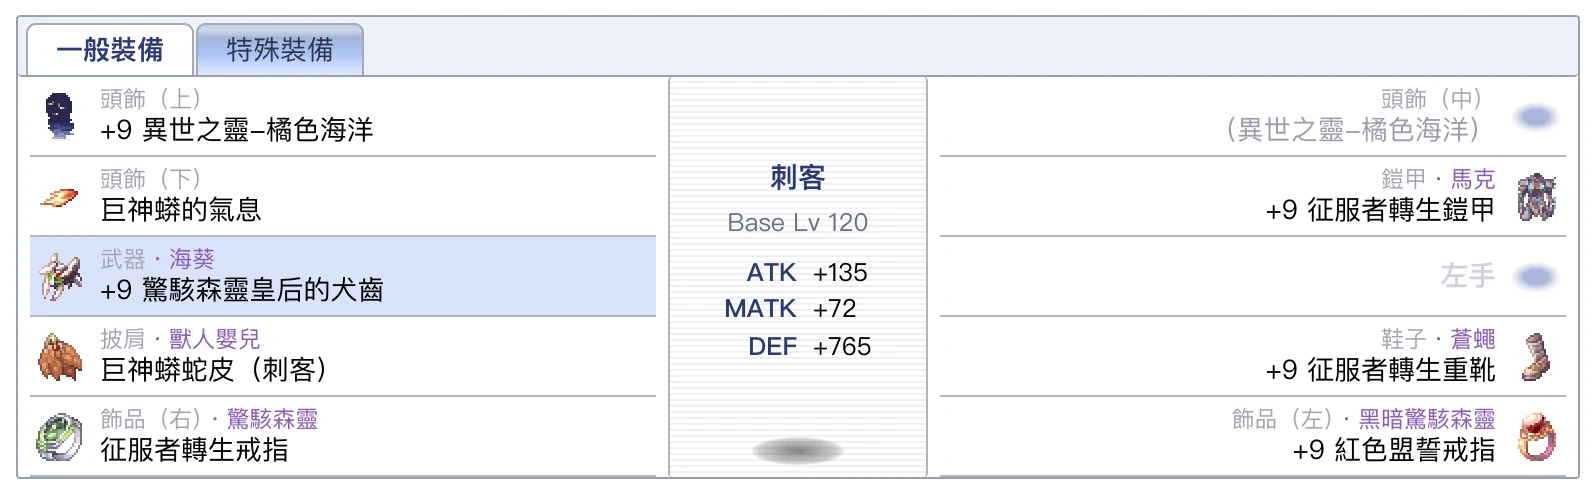
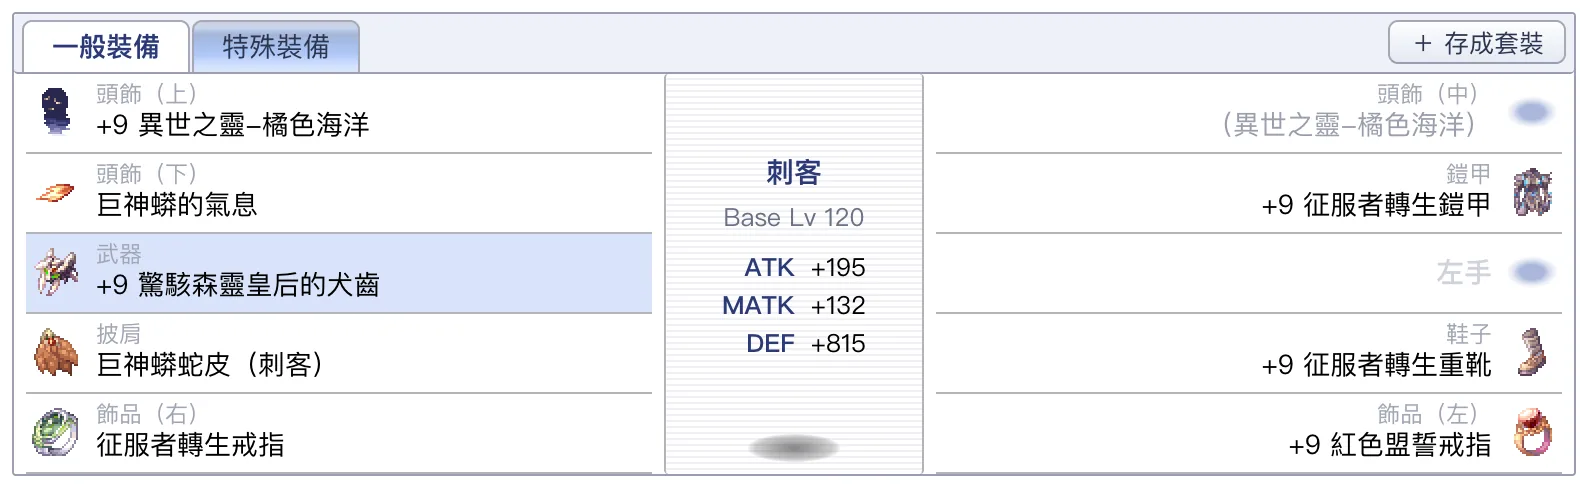
配裝：身上裝備和倉庫套裝一樣時，裝備視窗分頁右邊顯示「✓ ○○ 套裝套用中」；使用說明重拍設定、人物狀態、裝備視窗，新增倉庫圖，補套裝說明

diff --git a/public/gear-guide.html b/public/gear-guide.html
@@ -8,7 +8,7 @@
 <meta property="og:site_name" content="RO樂園工具箱">
 <meta name="author" content="凌雲閣－師爺">
 <link rel="stylesheet" href="style.css?v=29">
-<link rel="stylesheet" href="ro.css?v=33">
+<link rel="stylesheet" href="ro.css?v=34">
 <script src="ro-ui.js?v=3"></script>
 <!-- Google tag (gtag.js) -->
 <script async src="https://www.googletagmanager.com/gtag/js?id=G-WEJKY0CV80"></script>
@@ -98,8 +98,8 @@
       <li>舊版配裝和每日任務共用角色；更新後第一次打開時，有配裝的角色會自動搬到配裝的名單，名稱和配裝都保留。</li>
     </ul>
     <div class="two">
-      <figure><img src="guide/g-settings.webp?v=2" width="796" height="579" alt="設定區：職業、Base 等級、Job 等級，啟用附魔／卡片／符文／Buff／技能樹開關" loading="lazy"><figcaption>設定</figcaption></figure>
-      <figure><img src="guide/g-status.webp?v=2" width="392" height="369" alt="人物狀態：六項素質與 HP、SP、ATK、MATK、HIT、CRI、DEF、MDEF、FLEE、ASPD" loading="lazy"><figcaption>人物狀態</figcaption></figure>
+      <figure><img src="guide/g-settings.webp?v=3" width="796" height="736" alt="設定區：職業、Base 等級、Job 等級，啟用裝備／附魔／卡片／符文／Buff／技能樹開關、配置說明" loading="lazy"><figcaption>設定</figcaption></figure>
+      <figure><img src="guide/g-status.webp?v=3" width="392" height="369" alt="人物狀態：六項素質、再加 1 點要花的點數、剩餘點數，與 HP、SP、ATK、MATK、HIT、CRI、DEF、MDEF、FLEE、ASPD" loading="lazy"><figcaption>人物狀態</figcaption></figure>
     </div>
     <h3 class="sub-h">設定</h3>
     <ul>
@@ -133,7 +133,7 @@
   <div class="card" id="equip">
     <h2>3. 裝備視窗</h2>
     <figure><img src="guide/g-tools.webp" width="798" height="72" alt="裝備上方：搜尋裝備、一鍵套裝、整套精煉" loading="lazy"><figcaption>裝備上方：搜尋、一鍵套裝、整套精煉</figcaption></figure>
-    <figure><img src="guide/g-equip.webp" width="798" height="248" alt="裝備視窗：左右兩欄共十格，部位名稱後面是插著的卡片，中間是職業與 ATK、MATK、DEF" loading="lazy"><figcaption>一般裝備（10 格）</figcaption></figure>
+    <figure><img src="guide/g-equip.webp?v=2" width="794" height="244" alt="裝備視窗：上面是一般／特殊裝備分頁與「存成套裝」，左右兩欄共十格，中間是職業與 ATK、MATK、DEF" loading="lazy"><figcaption>一般裝備（10 格）</figcaption></figure>
     <ul>
       <li>格子的位置和遊戲的裝備視窗一樣：左欄是頭上、頭下、武器、披肩、飾品（右）；右欄是頭中、鎧甲、左手、鞋子、飾品（左）。</li>
       <li><b>點一下格子</b>：下方會顯示這個部位的詳細設定。</li>
@@ -145,11 +145,12 @@
     </ul>
     <figure><img src="guide/g-search.webp" width="356" height="432" alt="搜尋結果：上面是裝備，下面是卡片，右邊是會放到的部位" loading="lazy" style="max-width:360px"><figcaption>搜尋「波利」：裝備和卡片都會列出來</figcaption></figure>
     <h3 class="sub-h" id="stash">倉庫</h3>
+    <figure><img src="guide/g-stash.webp" width="798" height="333" alt="倉庫視窗：分類列（全部、套裝、武器…），上面是兩組套裝，下面是單件裝備，每件有套用、備註／改名、刪除" loading="lazy"><figcaption>倉庫：套裝和單件裝備</figcaption></figure>
     <ul>
       <li>部位標題右邊的 <b>「📦 存倉」</b>：把這件裝備連同精煉、附魔、附加能力、卡片存進倉庫（附魔、卡片沒開啟時不會存）。一模一樣的不會重複存。</li>
       <li>裝備標題列「↺ 重置裝備」旁邊的 <b>「📦 倉庫」</b>（後面的數字是件數）：打開倉庫視窗，再按一次、按「關閉」或 Esc 關掉。</li>
       <li>倉庫上面那排是<b>分類</b>（全部、套裝、武器、左手、頭飾、鎧甲、披肩、鞋子、飾品、特殊，後面的數字是件數），點一下只看那一類。按<b>「套用」</b>就穿回原本的部位（需要時會自動開啟附魔、卡片）；目前穿著的會標「✓ 穿著中」，職業或等級穿不了的不能套用。按「備註」加備註（例如「打 MVP 用」，最多 40 字，清空就是刪除），按 ✕ 刪除。<b>按右鍵</b>可以看物品資訊（和裝備視窗一樣）。</li>
-      <li><b>套裝</b>：分類列第一個。按「＋ 把身上的裝備存成套裝」（遊戲版面的裝備視窗，分頁右邊也有「＋ 存成套裝」），取個名字，就會存下目前所有部位（精煉、附魔、附加能力、卡片）和服飾附魔石。按<b>「套用」</b>一次換上整套（原本身上的會換掉；目前職業或等級不能穿的那幾件會略過並列出來）；「改名」「✕」可以改名、刪除。</li>
+      <li><b>套裝</b>：分類列第一個。按「＋ 把身上的裝備存成套裝」（遊戲版面的裝備視窗，分頁右邊也有「＋ 存成套裝」），取個名字，就會存下目前所有部位（精煉、附魔、附加能力、卡片）和服飾附魔石。按<b>「套用」</b>一次換上整套（原本身上的會換掉；目前職業或等級不能穿的那幾件會略過並列出來）；「改名」「✕」可以改名、刪除。身上的裝備和某組套裝一模一樣時，裝備視窗分頁右邊會顯示「✓ ○○ 套裝套用中」，倉庫裡那組顯示「✓ 穿著中」。</li>
       <li>倉庫預設是<b>浮在畫面上的視窗</b>：拖標題列移動、拖右下角調整大小，位置和大小會記住。按「📌 固定」改成放在技能樹和裝備中間，按「🪟 漂浮」再浮起來。版面夠寬時，好幾件會並排顯示。</li>
       <li>倉庫<b>所有角色共用</b>，和配裝一樣只存在這台裝置的瀏覽器，不會放進分享連結。</li>
     </ul>

diff --git a/public/gear.html b/public/gear.html
@@ -8,7 +8,7 @@
 <meta property="og:site_name" content="RO樂園工具箱">
 <meta name="author" content="凌雲閣－師爺">
 <link rel="stylesheet" href="style.css?v=29">
-<link rel="stylesheet" href="ro.css?v=33">
+<link rel="stylesheet" href="ro.css?v=34">
 <script>{ // 版面：預設遊戲版面；選過「一般版面」（std）才用一般版面。網址加 ?ui=ro 或 ?ui=std 可指定
   const u = new URLSearchParams(location.search).get('ui'); if (u === 'ro' || u === 'std') localStorage.setItem('gear-ui', u);
   if (localStorage.getItem('gear-ui') !== 'std') document.documentElement.dataset.ui = 'ro'; }</script>
@@ -1517,9 +1517,10 @@ const EQ_SP_KEYS = ['costume', 'spBoard', 'spPet', 'spLucky'];   // 放在特殊
 function renderEquipWin(res) {
   if (document.documentElement.dataset.ui !== 'ro') return;
   const tot = res.tot, ref = tot.refATK || 0, num = v => (v || 0) >= 0 ? '+' + (v || 0) : '−' + Math.abs(v);
+  const curOutfit = wornSlots().length ? (sig => readOutfits().find(o => outfitSig(o) === sig))(outfitSig(outfitNow())) : null;
   const tabs = `<div class="eq-tabs"><span class="eq-tl" role="tablist">` + [['main', '一般裝備'], ['sp', '特殊裝備']].map(([t, l]) =>
     `<button type="button" role="tab" aria-selected="${eqTab === t}" onclick="setEqTab('${t}')">${l}</button>`).join('') +
-    `</span><button type="button" class="eq-save" onclick="outfitAdd()" title="把身上整套裝備存進倉庫的「套裝」">＋ 存成套裝</button></div>`;
+    `</span>` + (curOutfit ? `<span class="eq-cur" title="身上的裝備和倉庫裡的這組套裝一模一樣">✓ ${escHtml(curOutfit.nm)} 套裝套用中</span>` : `<button type="button" class="eq-save" onclick="outfitAdd()" title="把身上整套裝備存進倉庫的「套裝」">＋ 存成套裝</button>`) + `</div>`;
   const ch = `<div class="eq-ch"><b>${st.job || '全部職業'}</b><small>Base Lv ${st.lv}</small>
     <dl><dt>ATK</dt><dd>${num((tot.ATK || 0) + ref)}</dd><dt>MATK</dt><dd>${num((tot.MATK || 0) + ref)}</dd><dt>DEF</dt><dd>${num(tot.DEF)}</dd></dl></div>`;
   const sp = eqTab === 'sp';
@@ -1786,6 +1787,7 @@ async function outfitAdd() {
   list.push(o); if (list.length > OUTFIT_MAX) list.splice(0, list.length - OUTFIT_MAX); writeOutfits(list);
   stashTab = 'set'; localStorage.setItem('gear-stash-tab', 'set');
   if (!stashOpen) toggleStashWin(true); else renderStash();
+  renderEquipWin(compute());
   const el = document.querySelector(`.stash-it[data-oid="${o.id}"]`); if (el) { el.classList.remove('flash'); void el.offsetWidth; el.classList.add('flash'); }
   track('gear_outfit_add', { n: Object.keys(o.s).length });
 }
@@ -1809,12 +1811,12 @@ async function outfitRename(id) {
   const o = readOutfits().find(y => y.id === id); if (!o) return;
   const v = ((await dialog({ title: '套裝改名', input: o.nm, okText: '儲存' })) || '').trim(); if (!v) return;
   const list = readOutfits(), y = list.find(z => z.id === id); if (!y) return;
-  y.nm = v.slice(0, 30); writeOutfits(list); renderStash();
+  y.nm = v.slice(0, 30); writeOutfits(list); renderStash(); renderEquipWin(compute());
 }
 async function outfitDel(id) {
   const o = readOutfits().find(y => y.id === id); if (!o) return;
   if (!await dialog({ title: '刪除套裝？', msg: o.nm, okText: '刪除' })) return;
-  writeOutfits(readOutfits().filter(y => y.id !== id)); renderStash(); track('gear_outfit_del');
+  writeOutfits(readOutfits().filter(y => y.id !== id)); renderStash(); renderEquipWin(compute()); track('gear_outfit_del');
 }
 function outfitHtml(o, cur) {
   const items = GEAR_SLOTS.map(([k]) => o.s[k]).filter(x => x && BY_NAME[stashName(x)]);

diff --git a/public/ro.css b/public/ro.css
@@ -71,6 +71,7 @@ html[data-ui="ro"] .eq-tabs { grid-area: tabs; display: flex; gap: 1px; padding:
 html[data-ui="ro"] .eq-tabs button { border-bottom: 0; border-radius: 5px 5px 0 0; background: var(--ro-tab); color: #2d3550; min-height: 26px; padding: 0 14px; font-size: 13.5px; box-shadow: none; }
 html[data-ui="ro"] .eq-tabs button[aria-selected="true"] { background: #fff; color: var(--ro-navy); font-weight: 700; }
 html[data-ui="ro"] .eq-tabs .eq-tl { display: flex; gap: 1px; }
+html[data-ui="ro"] .eq-tabs .eq-cur { margin: 0 4px 3px auto; align-self: center; font-size: 12.5px; color: #1d8a3c; font-weight: 700; white-space: nowrap; overflow: hidden; text-overflow: ellipsis; min-width: 0; }
 html[data-ui="ro"] .eq-tabs button.eq-save { margin: 0 0 3px auto; align-self: center; border-bottom: 1px solid var(--input-border); border-radius: 5px; min-height: 22px; padding: 0 10px; font-size: 12.5px; background: linear-gradient(#fdfdfe, #e4e9f3); }
 html[data-ui="ro"] .equip-win .eq {
   display: flex; align-items: center; gap: 7px; min-height: 40px; margin: 0 6px; padding: 2px 2px; text-align: right; flex-direction: row-reverse;

diff --git a/public/skill.html b/public/skill.html
@@ -8,7 +8,7 @@
 <meta property="og:site_name" content="RO樂園工具箱">
 <meta name="author" content="凌雲閣－師爺">
 <link rel="stylesheet" href="style.css?v=29">
-<link rel="stylesheet" href="ro.css?v=33">
+<link rel="stylesheet" href="ro.css?v=34">
 <script>{ // 版面：和配裝頁同一個設定（預設遊戲版面）
   const u = new URLSearchParams(location.search).get('ui'); if (u === 'ro' || u === 'std') localStorage.setItem('gear-ui', u);
   if (localStorage.getItem('gear-ui') !== 'std') document.documentElement.dataset.ui = 'ro'; }</script>

diff --git a/public/aspd.html b/public/aspd.html
@@ -8,7 +8,7 @@
 <meta property="og:site_name" content="RO樂園工具箱">
 <meta name="author" content="凌雲閣－師爺">
 <link rel="stylesheet" href="style.css?v=29">
-<link rel="stylesheet" href="ro.css?v=33">
+<link rel="stylesheet" href="ro.css?v=34">
 <script src="ro-ui.js?v=3"></script>
 <!-- Google tag (gtag.js) -->
 <script async src="https://www.googletagmanager.com/gtag/js?id=G-WEJKY0CV80"></script>

diff --git a/public/daily.html b/public/daily.html
@@ -8,7 +8,7 @@
 <meta property="og:site_name" content="RO樂園工具箱">
 <meta name="author" content="凌雲閣－師爺">
 <link rel="stylesheet" href="style.css?v=29">
-<link rel="stylesheet" href="ro.css?v=33">
+<link rel="stylesheet" href="ro.css?v=34">
 <script src="ro-ui.js?v=3"></script>
 <!-- Google tag (gtag.js) -->
 <script async src="https://www.googletagmanager.com/gtag/js?id=G-WEJKY0CV80"></script>

diff --git a/public/events.html b/public/events.html
@@ -8,7 +8,7 @@
 <meta property="og:site_name" content="RO樂園工具箱">
 <meta name="author" content="凌雲閣－師爺">
 <link rel="stylesheet" href="style.css?v=29">
-<link rel="stylesheet" href="ro.css?v=33">
+<link rel="stylesheet" href="ro.css?v=34">
 <script src="ro-ui.js?v=3"></script>
 <!-- Google tag (gtag.js) -->
 <script async src="https://www.googletagmanager.com/gtag/js?id=G-WEJKY0CV80"></script>

diff --git a/public/formula.html b/public/formula.html
@@ -8,7 +8,7 @@
 <meta property="og:site_name" content="RO樂園工具箱">
 <meta name="author" content="凌雲閣－師爺">
 <link rel="stylesheet" href="style.css?v=29">
-<link rel="stylesheet" href="ro.css?v=33">
+<link rel="stylesheet" href="ro.css?v=34">
 <script src="ro-ui.js?v=3"></script>
 <!-- Google tag (gtag.js) -->
 <script async src="https://www.googletagmanager.com/gtag/js?id=G-WEJKY0CV80"></script>

diff --git a/public/index.html b/public/index.html
@@ -8,7 +8,7 @@
 <meta property="og:site_name" content="RO樂園工具箱">
 <meta name="author" content="凌雲閣－師爺">
 <link rel="stylesheet" href="style.css?v=29">
-<link rel="stylesheet" href="ro.css?v=33">
+<link rel="stylesheet" href="ro.css?v=34">
 <script src="ro-ui.js?v=3"></script>
 <!-- Google tag (gtag.js) -->
 <script async src="https://www.googletagmanager.com/gtag/js?id=G-WEJKY0CV80"></script>

diff --git a/public/kr.html b/public/kr.html
@@ -8,7 +8,7 @@
 <meta property="og:site_name" content="RO樂園工具箱">
 <meta name="author" content="凌雲閣－師爺">
 <link rel="stylesheet" href="style.css?v=29">
-<link rel="stylesheet" href="ro.css?v=33">
+<link rel="stylesheet" href="ro.css?v=34">
 <script src="ro-ui.js?v=3"></script>
 <!-- Google tag (gtag.js) -->
 <script async src="https://www.googletagmanager.com/gtag/js?id=G-WEJKY0CV80"></script>
